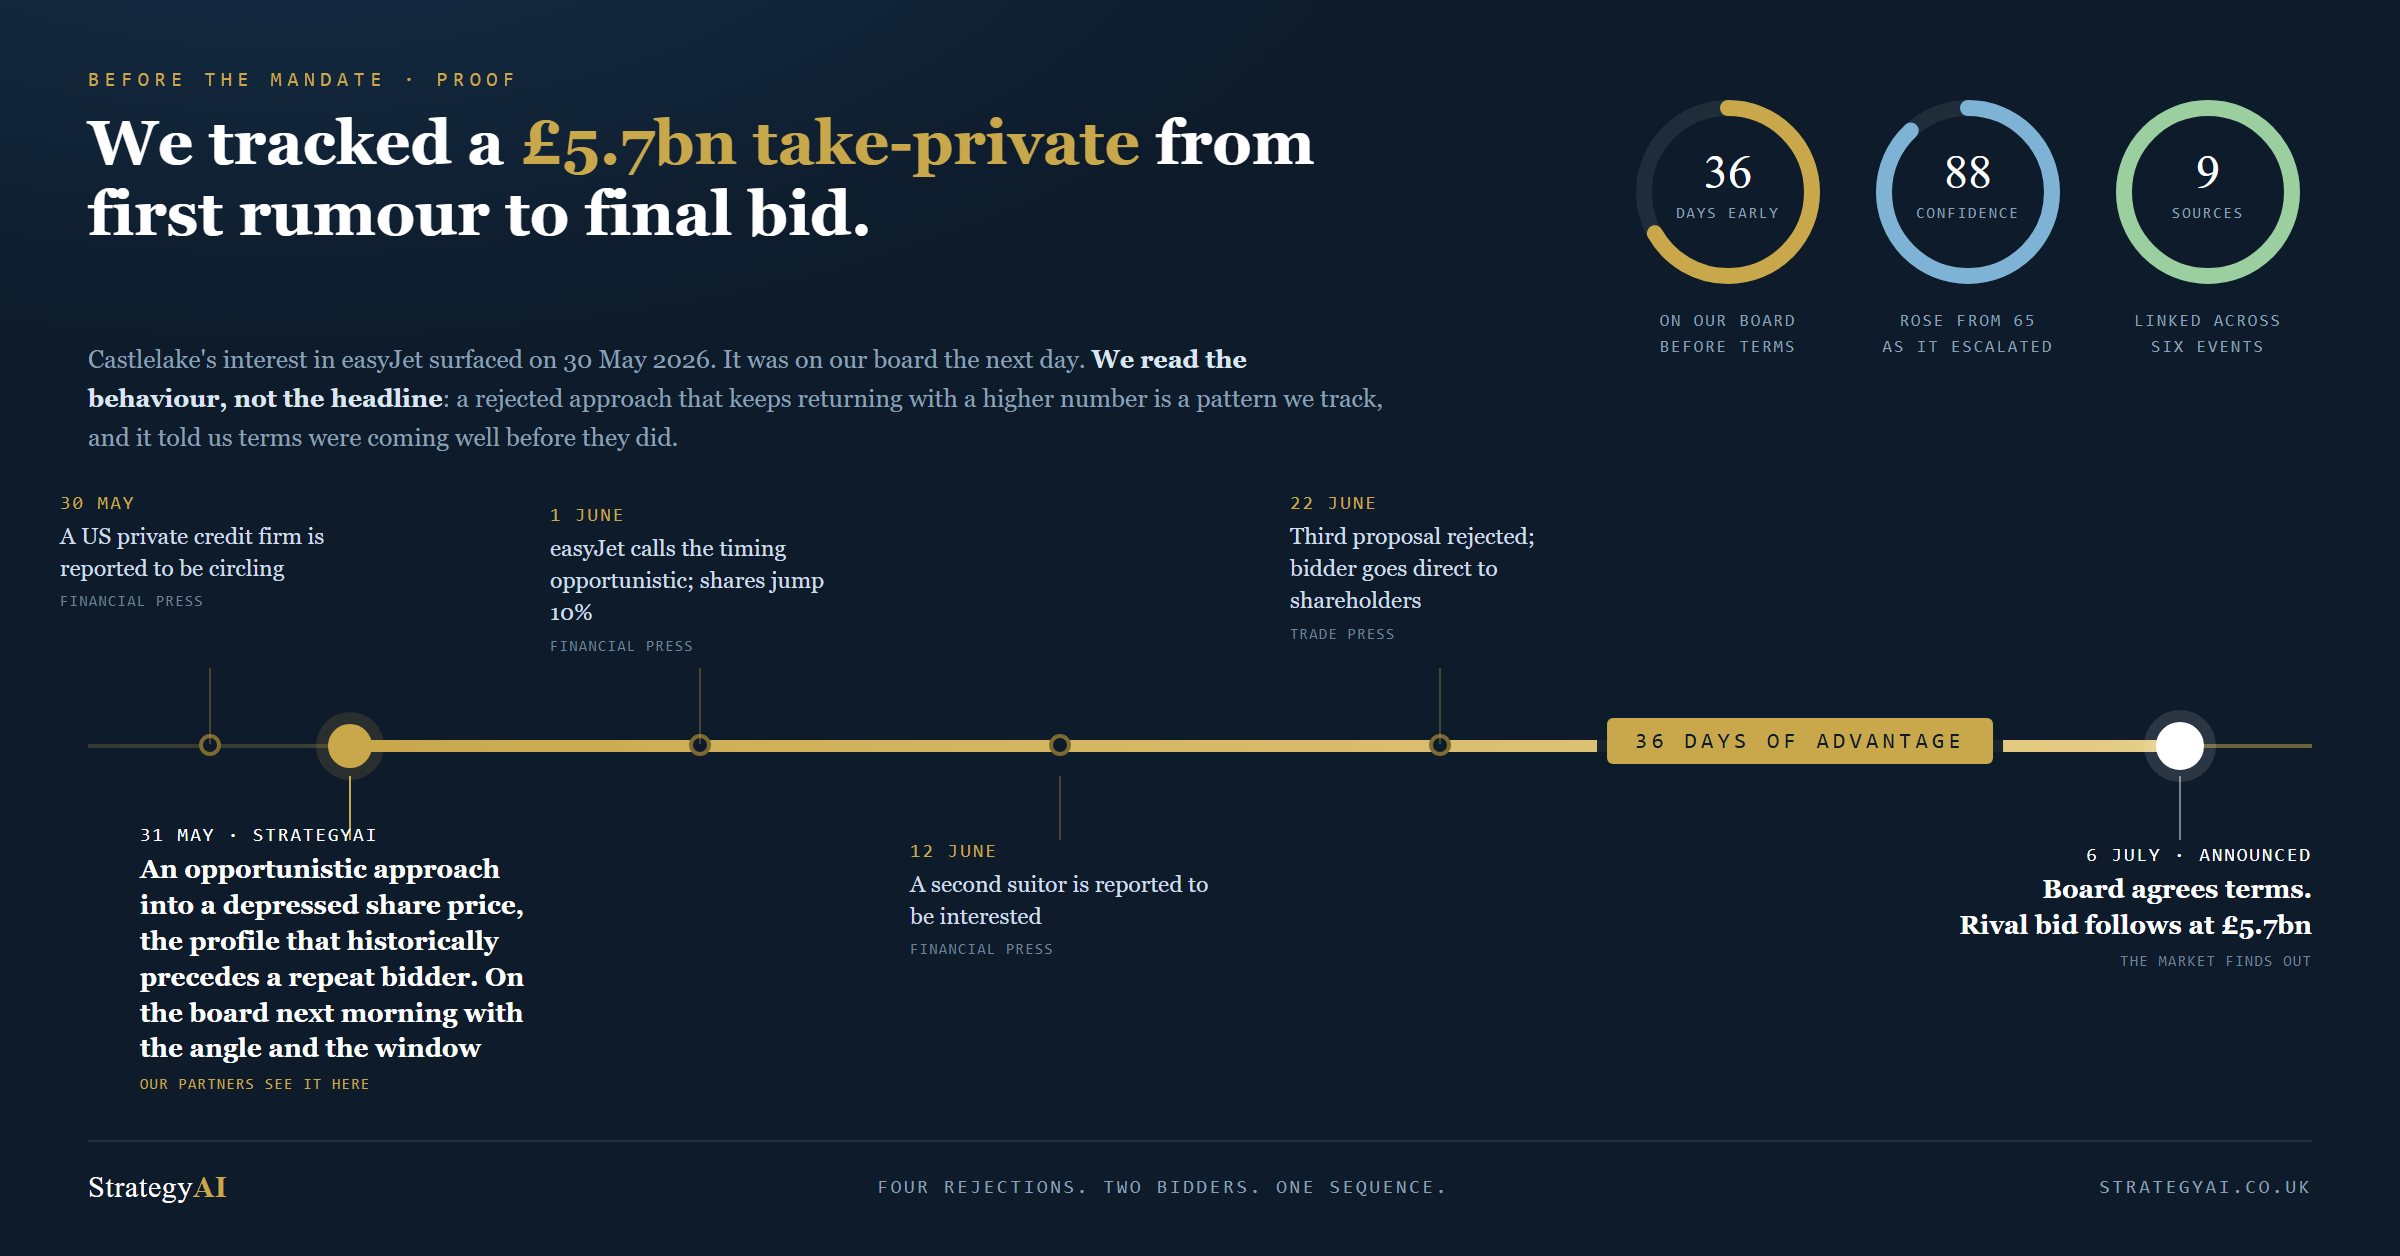
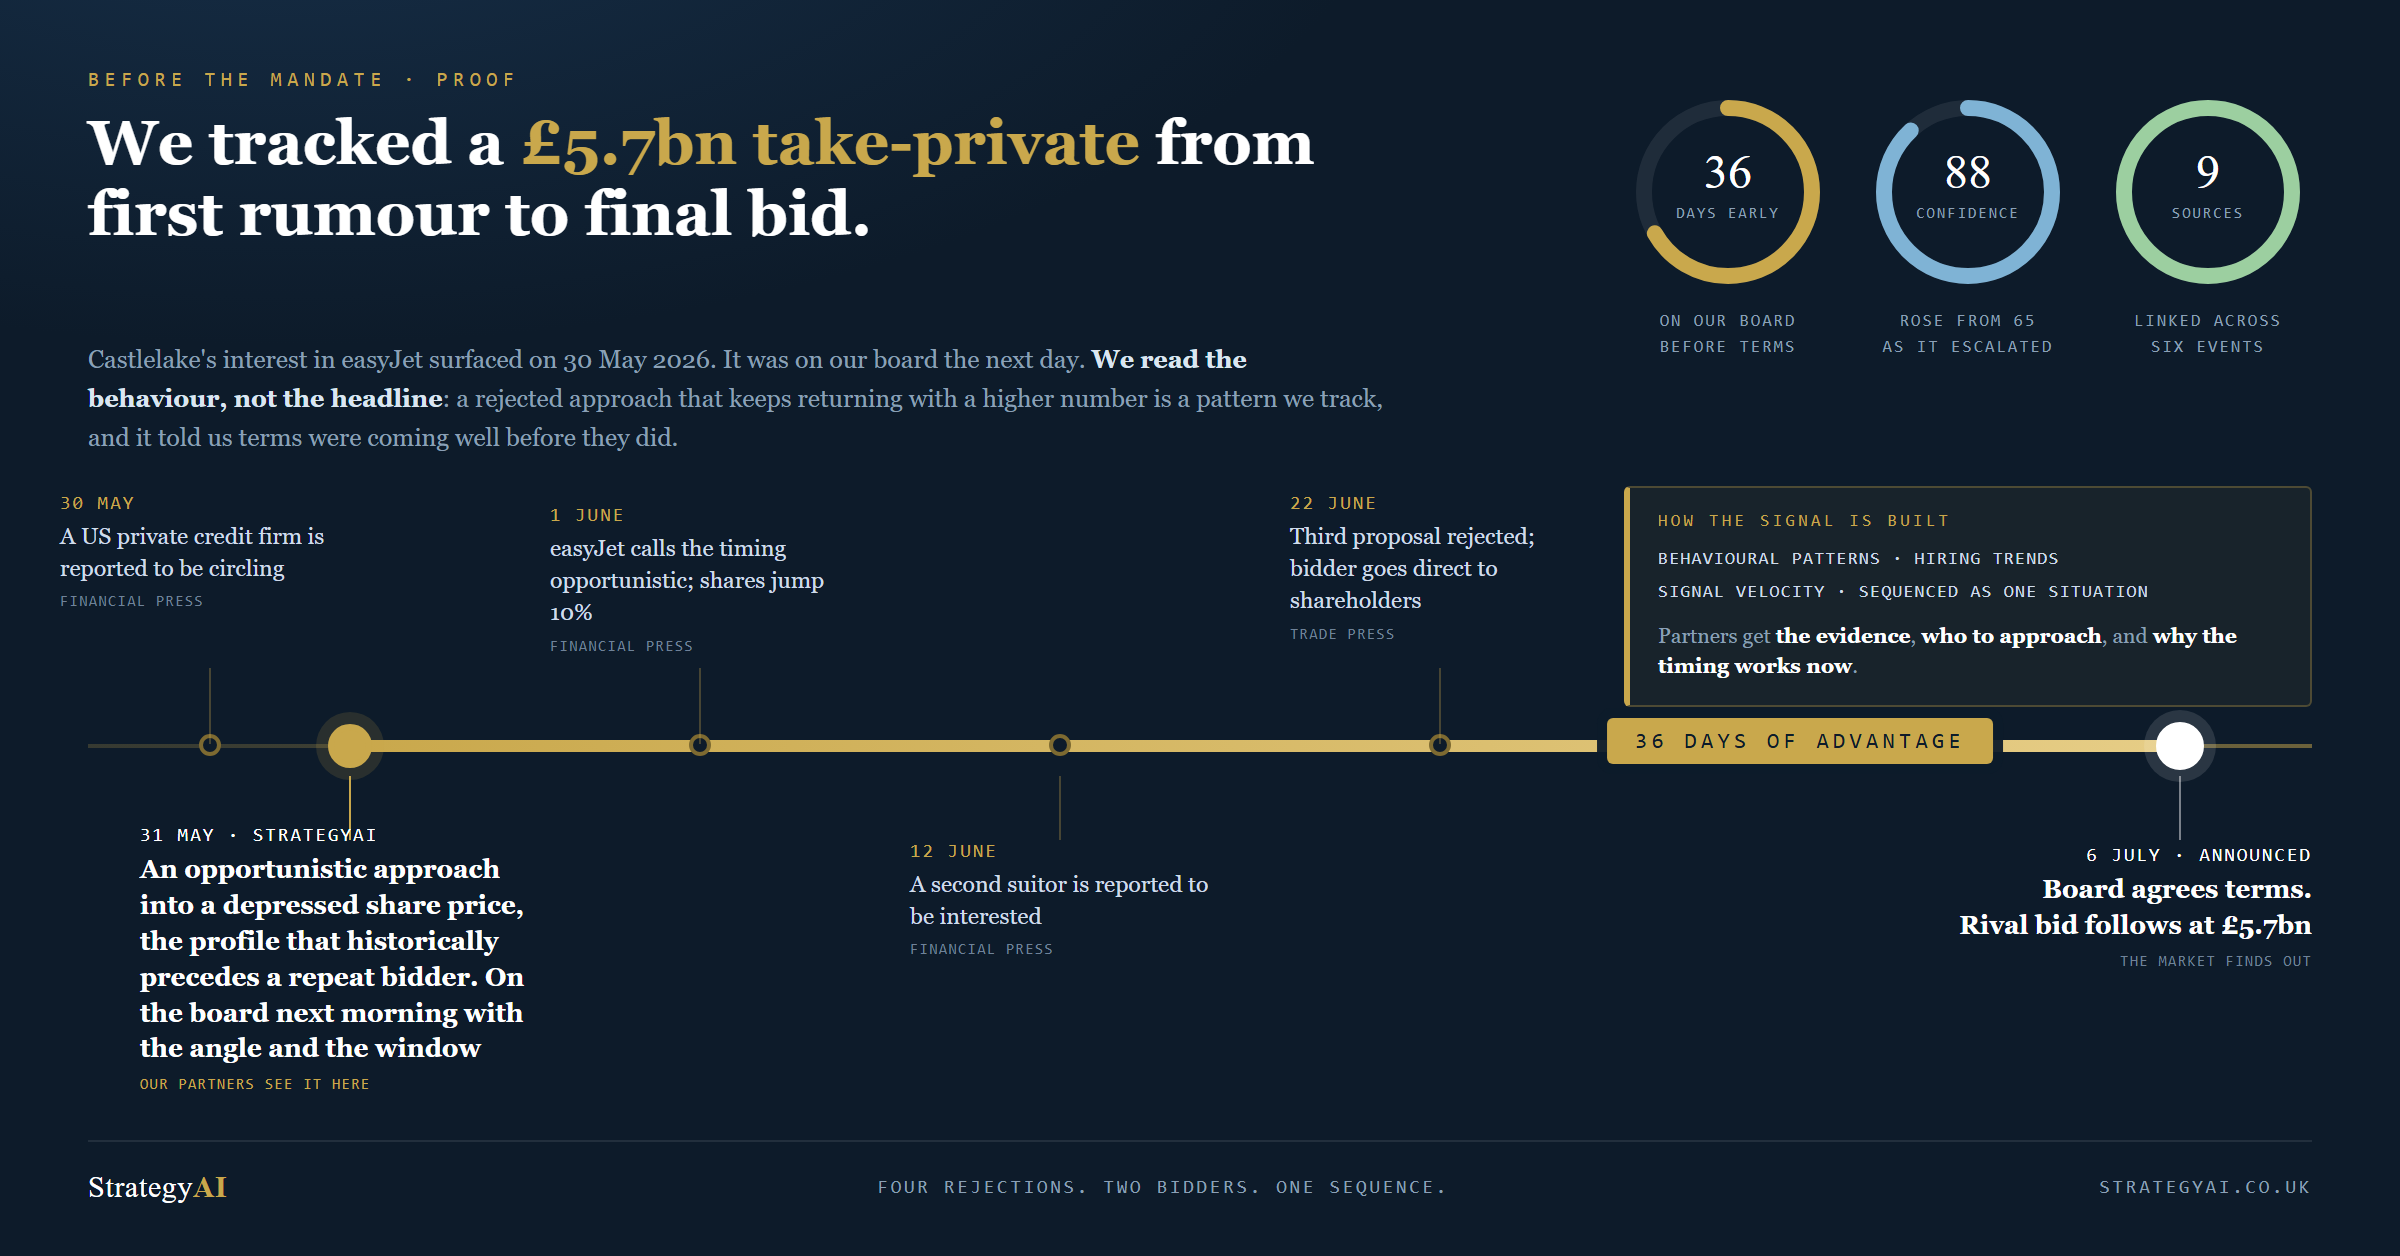
Add 'how the signal is built' panel to all three catch cards
States the method as capability rather than claiming a hiring signal fired
on deals where we hold none: behavioural patterns, hiring trends, signal
velocity, sequenced as one situation, plus what partners actually receive.

Changed region(s): [[0.6875, 0.4347, 0.9375, 0.5589]]

diff --git a/catches/commerzbank.html b/catches/commerzbank.html
@@ -45,6 +45,17 @@
   .lbl.hero{width:200px}
   .lbl.hero .t{font-size:13px;color:#fff;font-weight:600;line-height:1.38}
   .lbl.hero .d{color:#fff}
+  /* Method panel: sits in the clear zone right of the last above-label, under the dials.
+     Describes what we do, not what fired on this deal. */
+  .method{position:absolute;left:812px;top:243px;width:344px;padding:11px 14px 12px;
+    border:1px solid rgba(201,168,76,.3);border-left:3px solid var(--gold);border-radius:3px;
+    background:rgba(201,168,76,.06)}
+  .method h4{margin:0 0 6px;font-family:"DM Mono",monospace;font-size:8.5px;letter-spacing:.2em;
+    text-transform:uppercase;color:var(--gold);font-weight:400}
+  .method .row{font-family:"DM Mono",monospace;font-size:9px;letter-spacing:.07em;
+    text-transform:uppercase;color:#cfdcea;line-height:1.85}
+  .method p{margin:6px 0 0;font-size:10.5px;line-height:1.45;color:var(--muted)}
+  .method p b{color:#fff;font-weight:700}
   footer{position:absolute;left:44px;right:44px;bottom:26px;display:flex;
     justify-content:space-between;align-items:center;border-top:1px solid rgba(255,255,255,.09);
     padding-top:14px;font-family:"DM Mono",monospace;font-size:9.5px;letter-spacing:.15em;
@@ -76,6 +87,11 @@
   <text class="v" x="52" y="50" text-anchor="middle">15</text>
   <text class="u" x="52" y="65" text-anchor="middle">SOURCES</text>
 </svg><p>Linked across<br>six events</p></div></div>
+  <div class="method">
+    <h4>How the signal is built</h4>
+    <div class="row">Behavioural patterns · Hiring trends<br>Signal velocity · Sequenced as one situation</div>
+    <p>Partners get <b>the evidence</b>, <b>who to approach</b>, and <b>why the timing works now</b>.</p>
+  </div>
   <div class="spine"></div>
   <div class="run" style="left:230px;width:860px"></div>
   <div class="pill" style="left:905px">38 days of advantage</div>

diff --git a/catches/easyjet.html b/catches/easyjet.html
@@ -45,6 +45,17 @@
   .lbl.hero{width:200px}
   .lbl.hero .t{font-size:13px;color:#fff;font-weight:600;line-height:1.38}
   .lbl.hero .d{color:#fff}
+  /* Method panel: sits in the clear zone right of the last above-label, under the dials.
+     Describes what we do, not what fired on this deal. */
+  .method{position:absolute;left:812px;top:243px;width:344px;padding:11px 14px 12px;
+    border:1px solid rgba(201,168,76,.3);border-left:3px solid var(--gold);border-radius:3px;
+    background:rgba(201,168,76,.06)}
+  .method h4{margin:0 0 6px;font-family:"DM Mono",monospace;font-size:8.5px;letter-spacing:.2em;
+    text-transform:uppercase;color:var(--gold);font-weight:400}
+  .method .row{font-family:"DM Mono",monospace;font-size:9px;letter-spacing:.07em;
+    text-transform:uppercase;color:#cfdcea;line-height:1.85}
+  .method p{margin:6px 0 0;font-size:10.5px;line-height:1.45;color:var(--muted)}
+  .method p b{color:#fff;font-weight:700}
   footer{position:absolute;left:44px;right:44px;bottom:26px;display:flex;
     justify-content:space-between;align-items:center;border-top:1px solid rgba(255,255,255,.09);
     padding-top:14px;font-family:"DM Mono",monospace;font-size:9.5px;letter-spacing:.15em;
@@ -76,6 +87,11 @@
   <text class="v" x="52" y="50" text-anchor="middle">9</text>
   <text class="u" x="52" y="65" text-anchor="middle">SOURCES</text>
 </svg><p>Linked across<br>six events</p></div></div>
+  <div class="method">
+    <h4>How the signal is built</h4>
+    <div class="row">Behavioural patterns · Hiring trends<br>Signal velocity · Sequenced as one situation</div>
+    <p>Partners get <b>the evidence</b>, <b>who to approach</b>, and <b>why the timing works now</b>.</p>
+  </div>
   <div class="spine"></div>
   <div class="run" style="left:175px;width:915px"></div>
   <div class="pill" style="left:900px">36 days of advantage</div>

diff --git a/catches/delivery-hero-linkedin.html b/catches/delivery-hero-linkedin.html
@@ -59,6 +59,15 @@
   .lbl.hero .t{font-size:13px;color:#fff;font-weight:600;line-height:1.38}
   .lbl.hero .d{color:#fff}
 
+  .method{position:absolute;left:812px;top:243px;width:344px;padding:11px 14px 12px;
+    border:1px solid rgba(201,168,76,.3);border-left:3px solid var(--gold);border-radius:3px;
+    background:rgba(201,168,76,.06)}
+  .method h4{margin:0 0 6px;font-family:"DM Mono",monospace;font-size:8.5px;letter-spacing:.2em;
+    text-transform:uppercase;color:var(--gold);font-weight:400}
+  .method .row{font-family:"DM Mono",monospace;font-size:9px;letter-spacing:.07em;
+    text-transform:uppercase;color:#cfdcea;line-height:1.85}
+  .method p{margin:6px 0 0;font-size:10.5px;line-height:1.45;color:var(--muted)}
+  .method p b{color:#fff;font-weight:700}
   footer{position:absolute;left:44px;right:44px;bottom:26px;display:flex;
     justify-content:space-between;align-items:center;
     border-top:1px solid rgba(255,255,255,.09);padding-top:14px;
@@ -107,6 +116,12 @@
       </svg>
       <p>Linked across<br>six events</p>
     </div>
+  </div>
+
+  <div class="method">
+    <h4>How the signal is built</h4>
+    <div class="row">Behavioural patterns · Hiring trends<br>Signal velocity · Sequenced as one situation</div>
+    <p>Partners get <b>the evidence</b>, <b>who to approach</b>, and <b>why the timing works now</b>.</p>
   </div>
 
   <div class="spine"></div>

diff --git a/catches/build_cards.py b/catches/build_cards.py
@@ -57,6 +57,17 @@ TPL = """<title>StrategyAI · {title_tag}</title>
   .lbl.hero{{width:200px}}
   .lbl.hero .t{{font-size:13px;color:#fff;font-weight:600;line-height:1.38}}
   .lbl.hero .d{{color:#fff}}
+  /* Method panel: sits in the clear zone right of the last above-label, under the dials.
+     Describes what we do, not what fired on this deal. */
+  .method{{position:absolute;left:812px;top:243px;width:344px;padding:11px 14px 12px;
+    border:1px solid rgba(201,168,76,.3);border-left:3px solid var(--gold);border-radius:3px;
+    background:rgba(201,168,76,.06)}}
+  .method h4{{margin:0 0 6px;font-family:"DM Mono",monospace;font-size:8.5px;letter-spacing:.2em;
+    text-transform:uppercase;color:var(--gold);font-weight:400}}
+  .method .row{{font-family:"DM Mono",monospace;font-size:9px;letter-spacing:.07em;
+    text-transform:uppercase;color:#cfdcea;line-height:1.85}}
+  .method p{{margin:6px 0 0;font-size:10.5px;line-height:1.45;color:var(--muted)}}
+  .method p b{{color:#fff;font-weight:700}}
   footer{{position:absolute;left:44px;right:44px;bottom:26px;display:flex;
     justify-content:space-between;align-items:center;border-top:1px solid rgba(255,255,255,.09);
     padding-top:14px;font-family:"DM Mono",monospace;font-size:9.5px;letter-spacing:.15em;
@@ -70,6 +81,11 @@ TPL = """<title>StrategyAI · {title_tag}</title>
   <h1>{headline}</h1>
   <p class="sub">{sub}</p>
   <div class="dials">{dials}</div>
+  <div class="method">
+    <h4>How the signal is built</h4>
+    <div class="row">Behavioural patterns · Hiring trends<br>Signal velocity · Sequenced as one situation</div>
+    <p>Partners get <b>the evidence</b>, <b>who to approach</b>, and <b>why the timing works now</b>.</p>
+  </div>
   <div class="spine"></div>
   <div class="run" style="left:{run_from}px;width:{run_w}px"></div>
   <div class="pill" style="left:{pill_x}px">{pill}</div>
